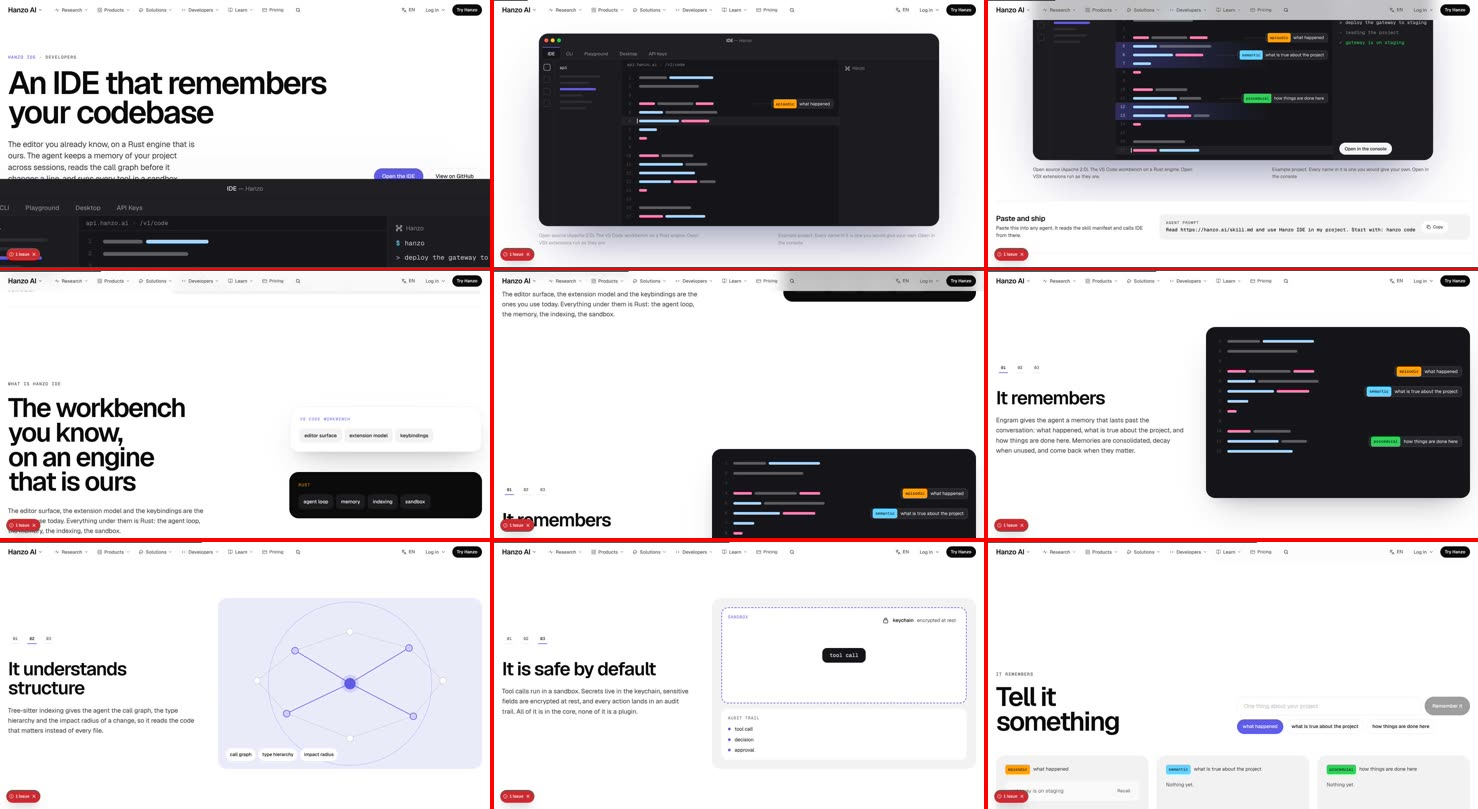
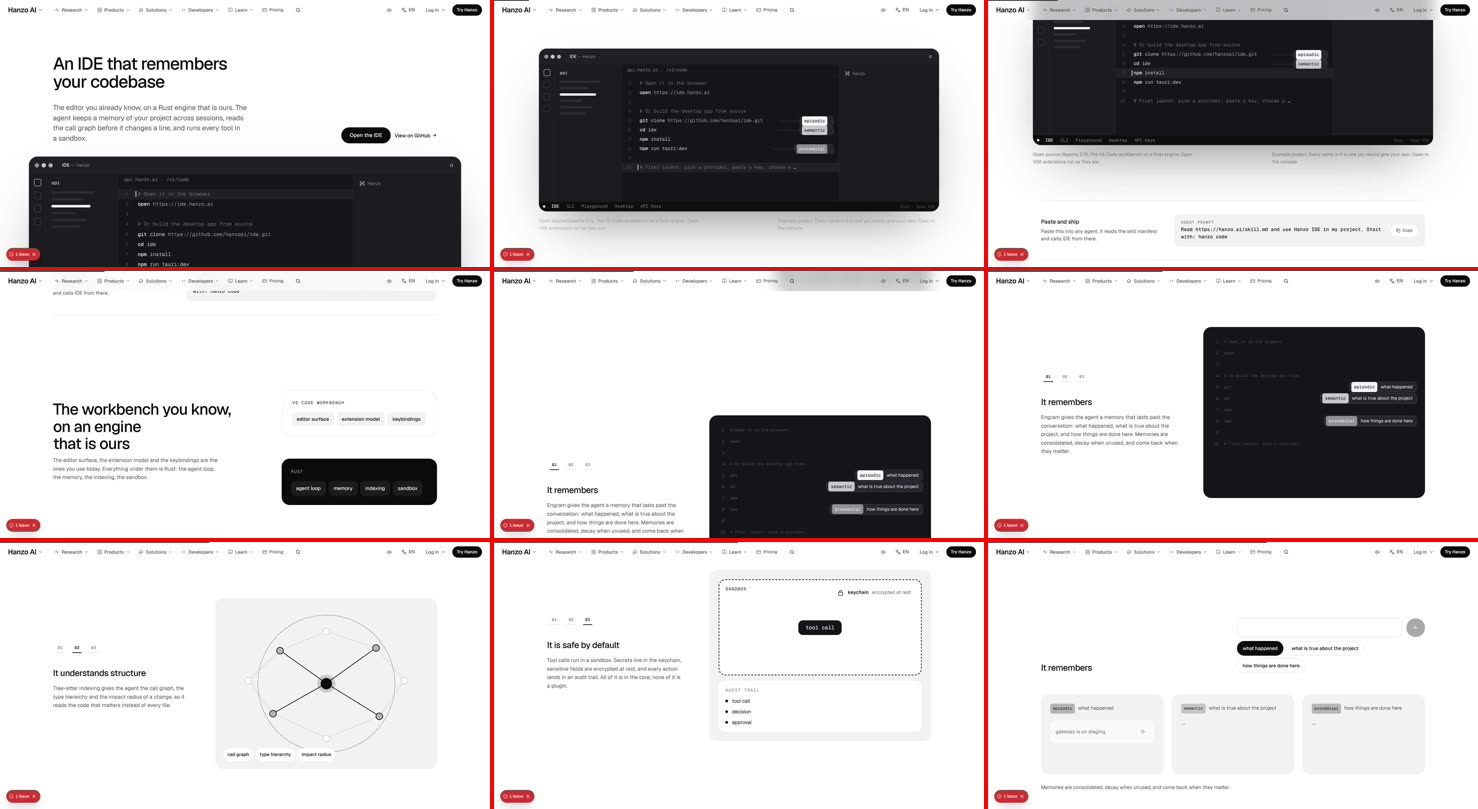
review: /ide 7/10 (reworked; 21px phone links, dead row hovers)
Claude-Session: https://claude.ai/code/session_01DqUybDEA5FZ4ZbAGVya4QA

diff --git a/docs/review/ide.md b/docs/review/ide.md
@@ -1,46 +1,42 @@
 # /ide — James-eye review
 
-Verdict: 5/10
-First complaint: "The editor is sitting on top of my buttons, and the code is just grey bars. Show the real thing."
+Verdict: 7/10
+First complaint: "It's finally calm and real. But the list in the black room is dead when I point at it, and the little GitHub links are too small to tap on my phone."
 
-Walked 7 Nov, page file at `cf12a91` (`components/pages/IdePage.jsx`, `IdePage.css`, shared `v2/A2*`), on main merged with the Apps 2 branch. Filmed moving at 1470×801 and 375×812 (wheel and finger scroll, dwell on every screen, hover and press on desktop, taps on phone), plus reduced motion and JS off. Stills: `review/ide/desktop-walk.jpg`, `review/ide/phone-walk.jpg`.
+Walked 7 Nov 15:10, page file at `12d3703c` (`components/pages/IdePage.jsx`, `IdePage.css`, shared `v2/A2*`), on the preview with the shared system (header ask, slim phone bar, new morph, sound). Filmed moving at 1470×801 and 375×812 (wheel and finger scroll, dwell on every screen, hover and press on desktop, taps on phone), plus reduced motion and JS off. Stills: `review/ide/desktop-walk.jpg`, `review/ide/phone-walk.jpg`. Replaces the 5/10 review of `cf12a91`.
 
 ## What works
-- There is a real story: the editor arrives big and settles, then three pinned chapters ("It remembers", "It understands structure", "It is safe by default") swap their picture while the text holds. That is "one comes in, one goes out".
-- "Tell it something" is a good Beyond: you type a memory, file it, and watch it fade and come back. A state change that is not scroll.
-- The headline is big and tight (96px, line height 0.92). CLS 0, 60fps, reduced motion leaves 0 running animations.
-- The agent-prompt and bash Copy buttons confirm ("Copied" replaces the label). Phone has a full-width "Open the IDE" bottom bar.
+- Every complaint from the last walk is fixed:
+  - the editor now starts under the buttons and stays inside the screen;
+  - it shows Hanzo's real start script (open, git clone, npm run tauri:dev), with memories surfacing in its gutter from the first second, and a pause control;
+  - the indigo, orange, blue and green are gone (`taste.py` passes), with no eyebrow over any headline.
+- The scale has rhythm: a 52px h1 with a short lede and a calm first screen. One big statement saved for the end, a black Band: "Open the IDE. It already knows the way around."
+- Motion of several kinds: the editor running itself (time), the stage settling and the pinned chapters (scroll), "Tell it something" (state), the orbiting memory tiers with a pause (idle), and the line-mask h1 (arrival).
+- Press scales to .98 and hover darkens the primary; Copy confirms. CLS 0. Reduced motion leaves 0 running animations.
 - Parity: text 75/75, links 10/10.
 
 ## The 11 answers
-1. **Sells in 5 seconds, moves within 1 second?** The headline sells. But at 1470×801 the dark editor window covers the bottom of the lede and cuts "Open the IDE" and "View on GitHub" in half, and its left edge runs off the screen (the "IDE" tab is cut). After the headline cut-in nothing moves until you scroll: the hero sat still for my 2.5s dwell.
-2. **One in, one out, or a document?** Mostly a scene: stage, exploded workbench, pinned chapters, dark room. The accordion list in the dark room and the "Get started" code block read as a document.
-3. **A real visual object in every section?** Yes, but the main one is fake. By the file's own comment, "the code is drawn, not written": grey and pink bars where code should be. A wireframe, not Hanzo's product.
-4. **One ask, sticky after the hero?** Phone: yes, the bottom bar. Desktop: no. Once the stage passes, only the header's "Try Hanzo" stays. The close has two solids side by side: indigo "Open the IDE", and white "Deploy to Cloud" inside an indigo "Get IDE" card.
-5. **Every hover and press answers, no jumps?** Hovers answer (the button grows, memory tags expand). Press on "Open the IDE" does nothing: no scale, no shift.
-6. **Overlaps, font swap, layout shift?** Overlap in the hero at 1470×801 (above). No swap, no shift. Phone: "Open in the console" is an 18px tap target. JS off: 8 of 42 text blocks stay invisible.
-7. **Which reference, is its motion there?** Apple product page (stage hero, pinned chapters): yes, the motion is there. synchronized.studio: no card opens into a page.
-8. **Different from neighbours?** No. /desktop and /cli open on the same "— Hanzo" window with the same tabs (IDE, CLI, Playground, Desktop, API Keys). Every Apps page has a coloured kicker over a left headline and its own coloured button: indigo here, orange on /mcp, teal on /operator, blue on /operative, green on /cli.
-9. **18 areas (PLAN-COMPONENTS)?** See below. No `docs/coverage/ide.md`.
-10. **Banned tells?** Yes:
-    - eyebrows over headlines ("HANZO IDE · DEVELOPERS", "WHAT IS HANZO IDE", "IT REMEMBERS", "CAPABILITIES", "GET STARTED");
-    - UI colour everywhere: indigo buttons and card, a lavender graph box, a purple dashed sandbox, and orange, blue and green memory tags (green is banned outright);
-    - a dead press on the primary.
+1. **Sells in 5 seconds, moves within 1 second?** Yes. The headline, lede, "Open the IDE" and a live editor all fit 1470×801, and the cursor is walking the code at once.
+2. **One in, one out, or a document?** A scene: stage, exploded workbench, three pinned chapters, the memory demo, a dark room, then the Band. The "Open it in the browser, or build it on your machine" block is the one document moment.
+3. **A real visual object in every section?** Yes: editor, the two planes, call graph, sandbox, memory cards, orbit, terminal, the Get IDE card and the app cards.
+4. **One ask, sticky after the hero?** "Open the IDE" in the hero and in the Band. But the header kept a solid "Try Hanzo" at every scroll position. So at the top there are two solids, and the page's own ask never reaches the header. **(shared:** `Ask.jsx` should outline the header button while the hero ask shows, then swap it for "Open the IDE"; that didn't happen here.**)**
+5. **Every hover and press answers, no jumps?** Not all. In the dark room the accordion rows ("Three tiers of memory", "Agent profiles", "Ten layers of security") and the Pause button showed no change on hover. The primary, Copy and the memory tags answer.
+6. **Overlaps, font swap, layout shift?** None. Phone tap targets: "View on GitHub", "GitHub" and "Hanzo Cloud" are 21px tall. JS off: 3 of 42 text blocks stay hidden.
+7. **Which reference, is its motion there?** Apple product page (stage, pinned chapters, one statement at the end): yes. synchronized.studio: the CLI, Playground and Desktop cards open by the shared morph.
+8. **Different from neighbours?** Better. It no longer opens on the /desktop and /cli window. But the editor still carries their tab row (IDE · CLI · Playground · Desktop · API Keys) along its bottom edge.
+9. **18 parts?** The card is in the MASTER format with 18 filled `Done here:` lines. See the card check.
+10. **Banned tells?** None found. Monochrome, no label over a headline, no floating panel, no springs seen.
 11. **Copy untouched?** Yes (parity clean).
 
-## Missing from the 18 areas
-- **2.3 First impression:** h1, lede and primary do not fit cleanly at 1470×801; the hero object overlaps them.
-- **2.3 / 2.7 Product renders:** the editor shows bar shapes, not crisp real text ("Show the real thing").
-- **2.4 Conversion:** no desktop sticky ask; two solids in the close.
-- **2.7 Visual system:** indigo accent plus five tag colours break the 0-hue rule.
-- **2.8 Components:** no press state on the primary.
-- **2.9 Motion:** the hero's live demo (cursor walking, memories surfacing) only starts once you scroll.
-- **2.11 / 2.12:** 18px tap target; hidden text with JS off.
-- **2.18 Measurement:** no `Persona:` / `Goal:` / `CTA:` lines, no `data-cta`.
+## Card check (`docs/coverage/ide.md`)
+- **Part 11, false:** "Every target 44px or more" is ticked, but three phone links measure 21px. This caps the verdict at 7.
+- **Part 4, false at 1470:** "Sticky ask in header and bar after the hero, same label" is ticked; the header said "Try Hanzo" throughout (shared, see answer 4).
+- **Part 8, partly false:** "Every control has hover…" is ticked; the dark-room rows and Pause don't answer hover.
+- **Header line, partly false:** "Forks this page deleted: the tab row shared with /cli and /desktop". The row is still in the editor's status bar.
+- Honest gaps, already left unticked: one solid per viewport, `PageHero`, kit tables and code, icon set, budgets, `CodeBlock`, error boundary.
 
 ## Fixes (in order)
-1. **Clear the hero.** At 1470×801 the editor must start below "Open the IDE" (or start smaller and grow as you scroll) and stay inside the screen. Nothing may cover the lede or the buttons.
-2. **Put real code in the editor.** Real text lines from Hanzo's own example (the gateway file the agent panel already talks about), crisp, in greys. Let the cursor walk them and the memories surface beside them from the first second, without waiting for scroll.
-3. **Strip the eyebrows.** Delete "HANZO IDE · DEVELOPERS", "WHAT IS HANZO IDE", "IT REMEMBERS", "CAPABILITIES" and "GET STARTED" above the headlines.
-4. **Take the colour out of the UI.** "Open the IDE" and "Get IDE" in ink and white. The graph box and sandbox in hairline grey. Tell the three memory kinds apart by label and position, not orange, blue and green.
-5. **One ask, everywhere.** Add the desktop sticky "Open the IDE" once the hero button leaves. In the close, keep one solid and make "Deploy to Cloud" a text link. Give the primary a press (scale .98).
+1. **Make every phone target 44px.** Give "View on GitHub", "GitHub" and "Hanzo Cloud" a 44px hit area (padding or an `::after` inset), or set them as quiet `Cta` buttons.
+2. **Let the dark-room rows answer.** A hover fill on each accordion row (the row-fill move, 150ms) and a hover state on Pause, so pointing tells you the row opens.
+3. **Drop the borrowed tab row.** Take "IDE · CLI · Playground · Desktop · API Keys" out of the editor's status bar, so /ide stops wearing its neighbours' window.
+4. **Report the header ask.** The header kept "Try Hanzo" solid next to the hero's solid "Open the IDE", and never swapped. Tell the shared owner (`docs/requests/ide.md`), or check that the hero `Cta thumb` is the first `[data-thumb]` in `<main>`.
